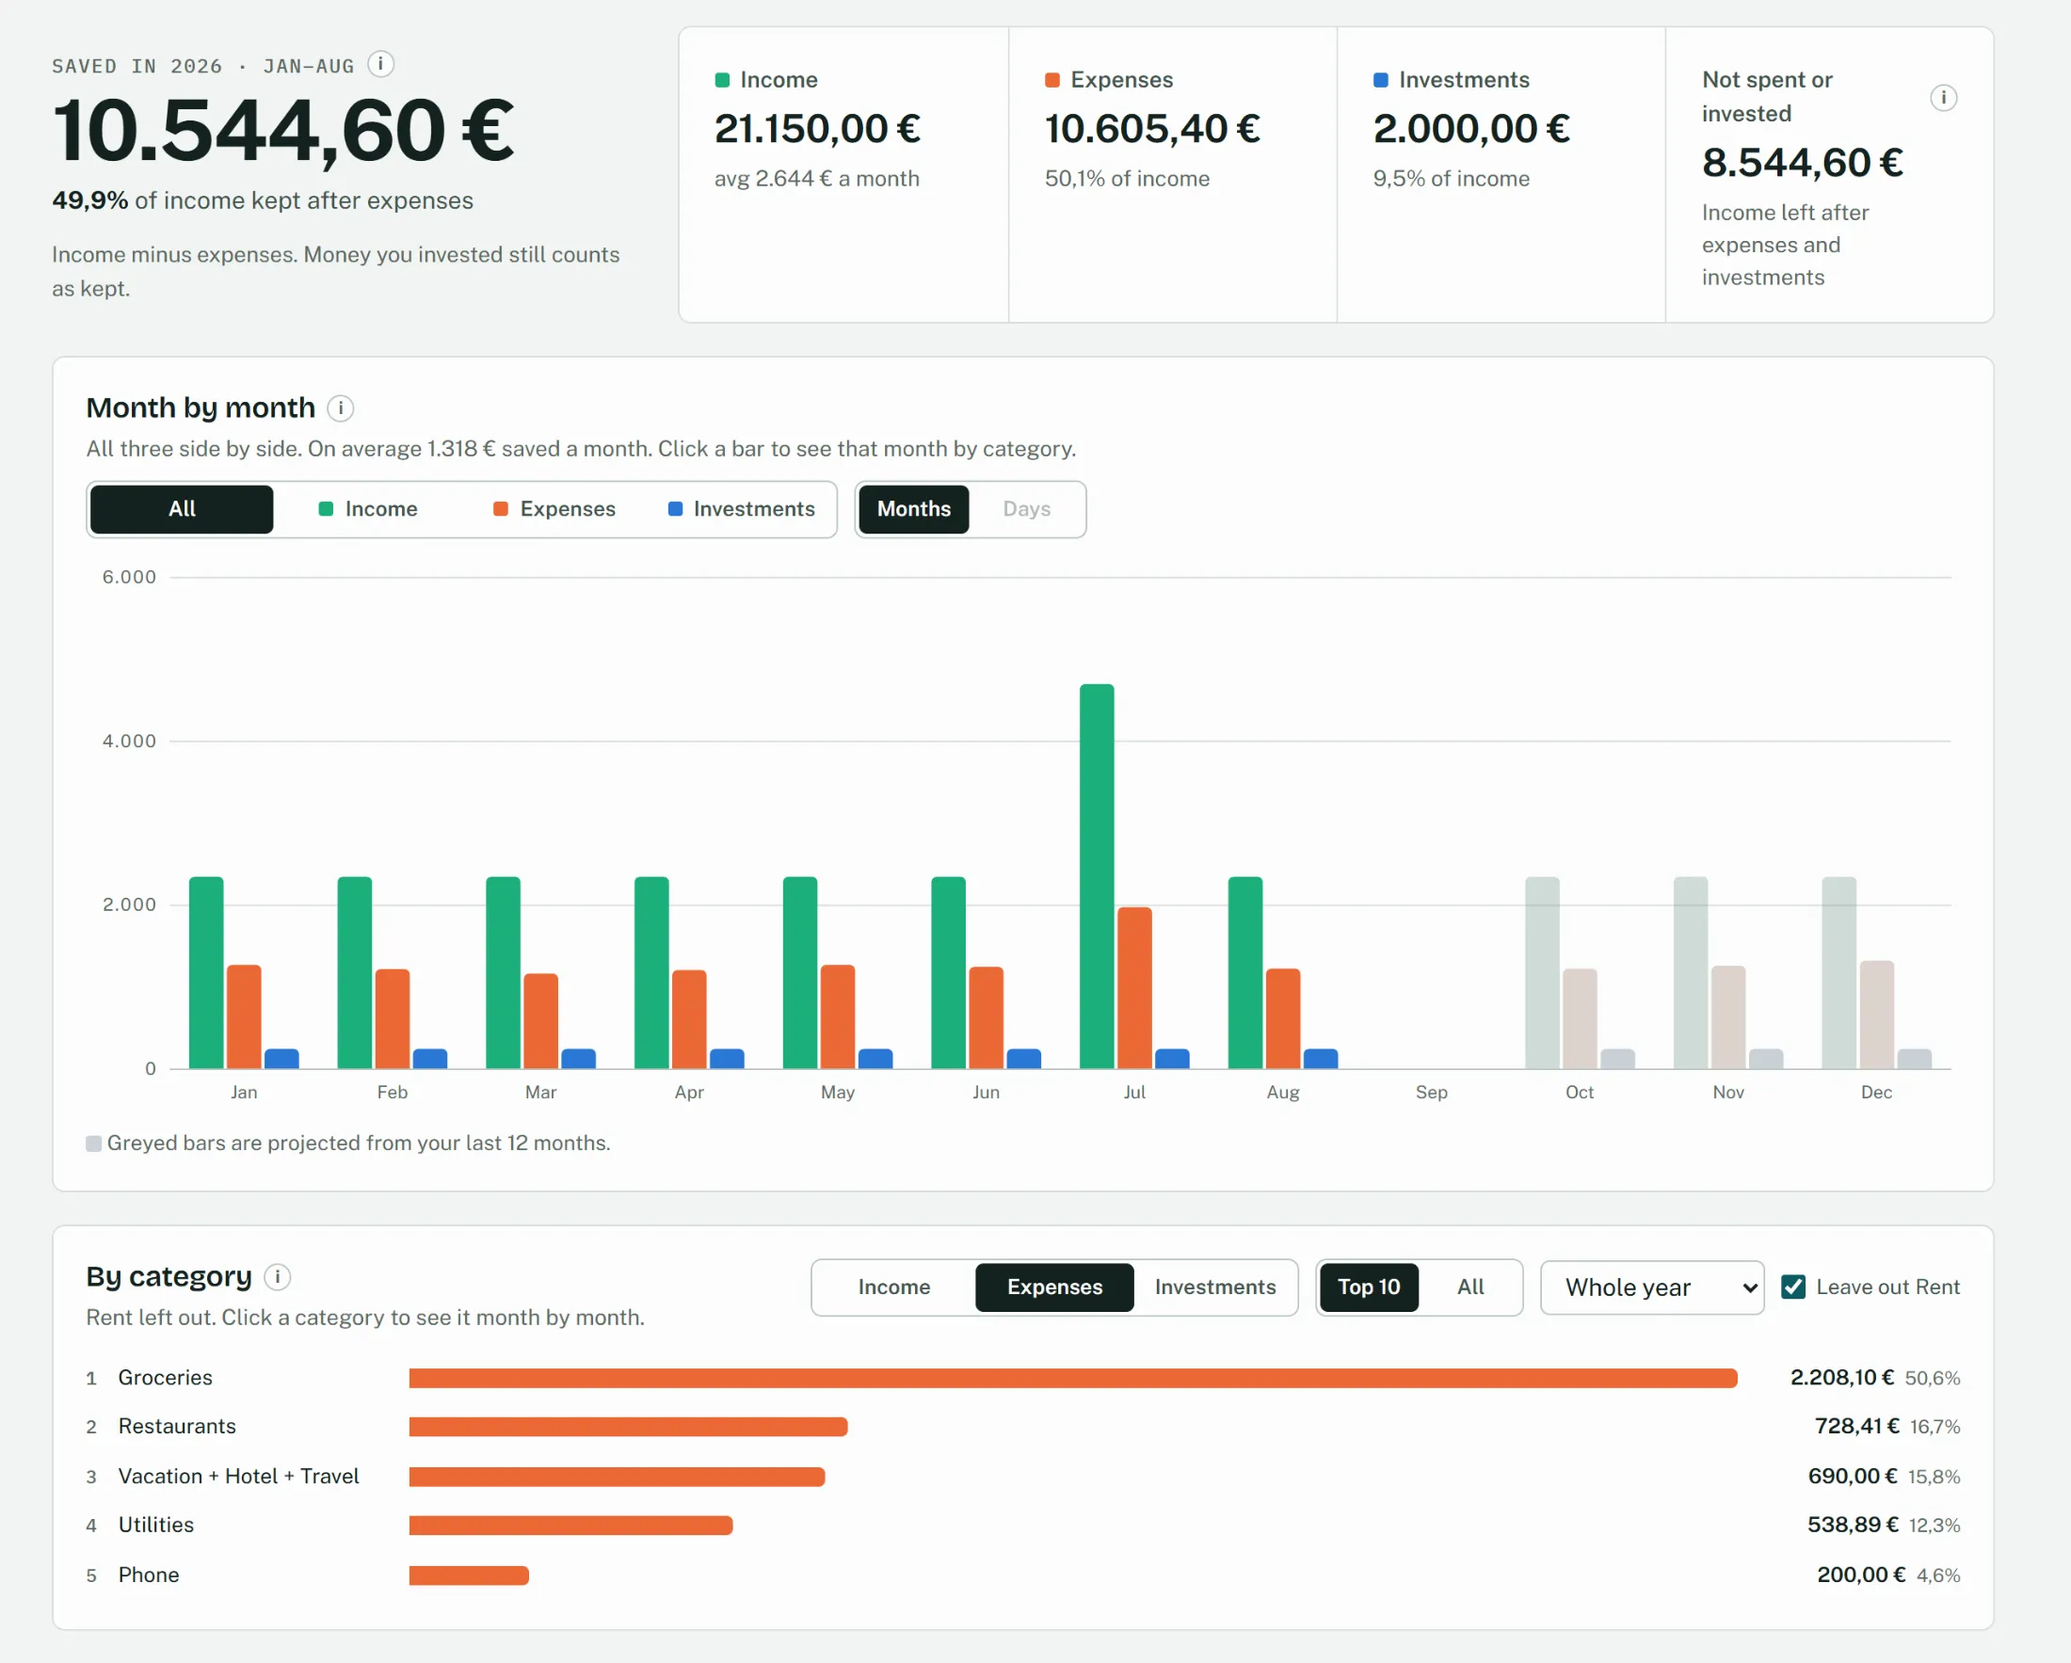
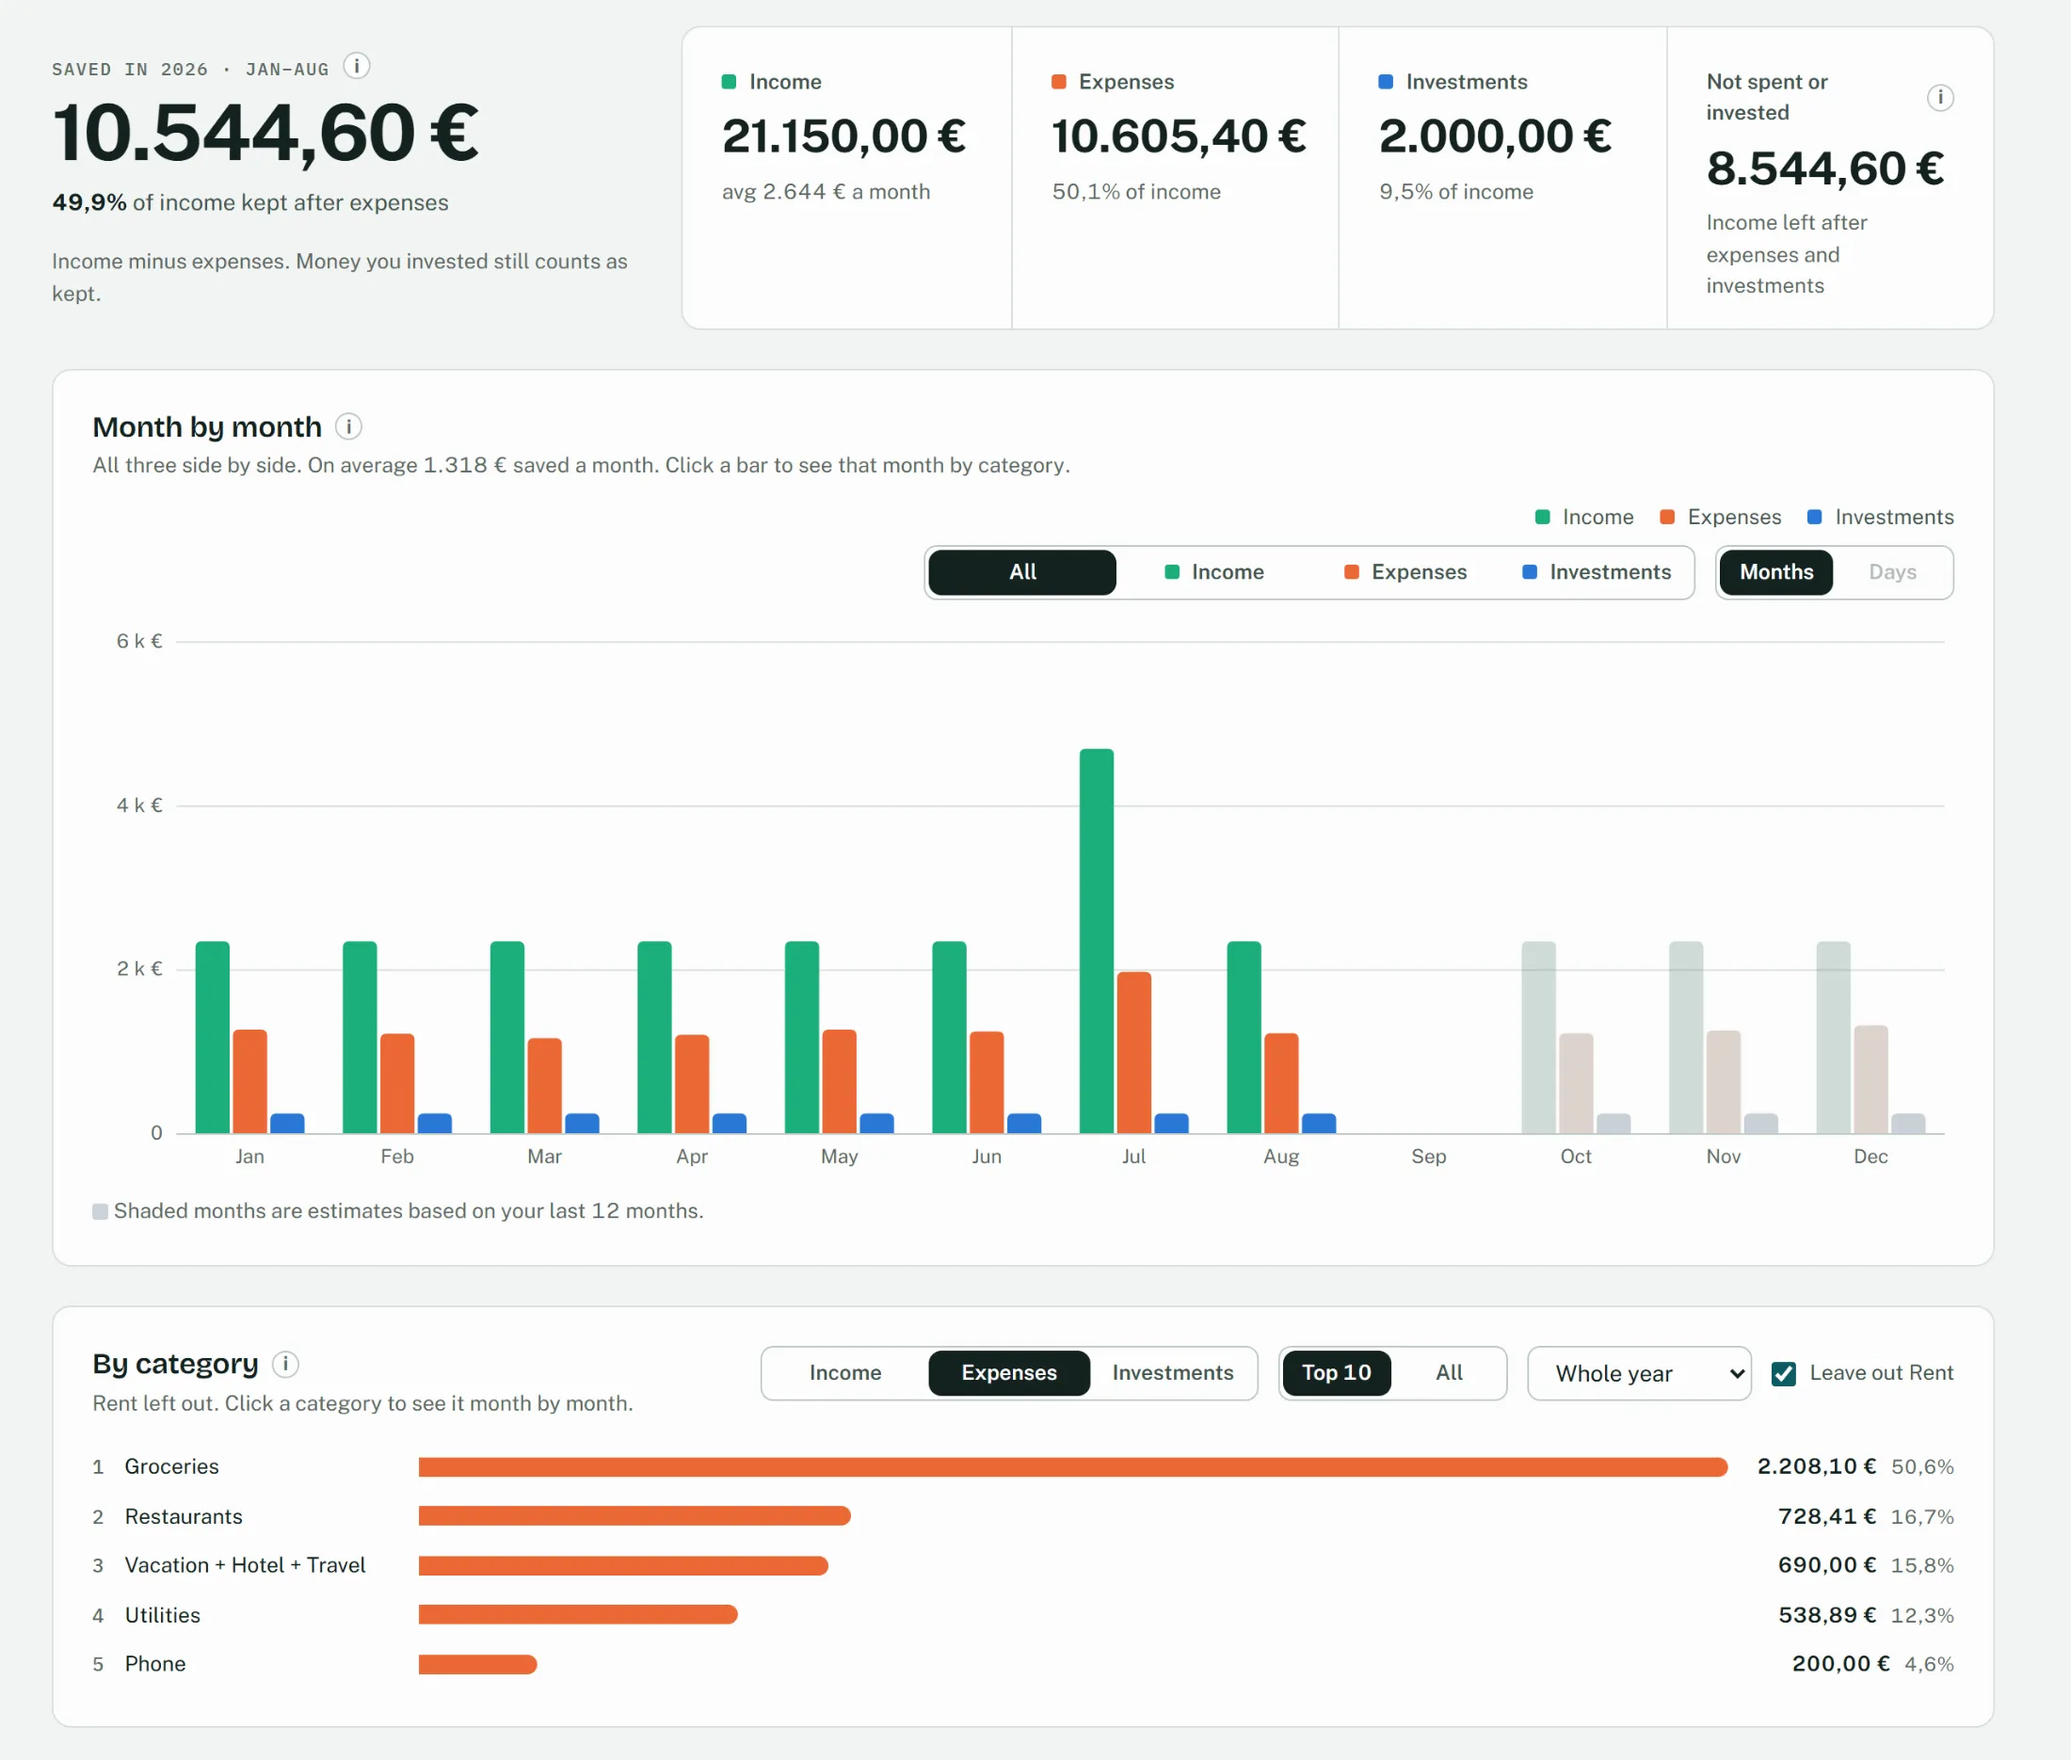
Layout pass 9: LAYOUT-CHANGES.md, SW 1.0.36, new landing shots
LAYOUT-CHANGES.md lists the pass per tab, the figure check (no value
changed on the demo data) and what needs a decision. Service worker and
config version 1.0.36 so installed copies pick up the new page. Landing
product shots regenerated from the new UI (made-up data).

diff --git a/sw.js b/sw.js
@@ -1,7 +1,7 @@
 /* MyAhorros: keeps the site's own files on the device so it opens offline.
    Only the site's files are cached; your data is never here (it lives in your folder, Drive or browser storage).
    The page itself is fetched fresh when online, so updates arrive on the next visit. */
-const VERSION='1.0.35-myahorros';
+const VERSION='1.0.36-myahorros';
 const CACHE='ybt-'+VERSION;
 const FILES=["./", "config.js", "fonts/bricolage-grotesque-latin-ext-opsz-normal.woff2", "fonts/bricolage-grotesque-latin-opsz-normal.woff2", "fonts/fonts.css", "fonts/ibm-plex-mono-latin-400-normal.woff2", "fonts/ibm-plex-mono-latin-500-normal.woff2", "fonts/ibm-plex-mono-latin-ext-400-normal.woff2", "fonts/ibm-plex-mono-latin-ext-500-normal.woff2", "fonts/public-sans-latin-ext-wght-normal.woff2", "fonts/public-sans-latin-wght-normal.woff2", "icons/apple-touch-icon.png", "icons/icon-192.png", "icons/icon-512.png", "icons/icon-maskable-512.png", "images/landing-networth-dark.webp", "images/landing-networth-light.webp", "images/landing-overview-dark.webp", "images/landing-overview-light.webp", "images/landing-yearly-dark.webp", "images/landing-yearly-light.webp", "index.html", "js/models.js", "js/web-ai.js", "js/web-boot.js", "js/web-shim.js", "manifest.webmanifest", "privacy.html", "vendor/pdf.min.js", "vendor/pdf.worker.min.js", "vendor/xlsx.full.min.js", "web.css"];
 self.addEventListener('install',e=>{ e.waitUntil(caches.open(CACHE).then(c=>c.addAll(FILES)).then(()=>self.skipWaiting())); });

diff --git a/config.js b/config.js
@@ -3,5 +3,5 @@
    Leave it empty and the Google Drive option shows as not available; folders and browser storage still work. */
 window.YBT_CONFIG = {
   googleClientId: '416274493105-bhfq37fgg059vpq3akspvd6l83m2gsui.apps.googleusercontent.com',
-  version: '1.0.35'
+  version: '1.0.36'
 };

diff --git a/LAYOUT-CHANGES.md b/LAYOUT-CHANGES.md
@@ -1,0 +1,118 @@
+# Layout and visual consistency pass
+
+A presentation-only pass over the whole tracker (branch `overhaul`, commits `fef1908`…`bfaf3ba`, SW 1.0.36). No calculation, data model, storage, import or categorisation logic changed. Every figure on every tab was compared before and after on the same made-up demo data. No figure changed value. The only differences are formatting (listed below) and three new display-only figures: the Goal card's current amount with 2 decimals, the group rows' Change, and shares with one decimal.
+
+## Across the app
+
+- **Tokens.** One token block in `index.html` `:root` holds all of these:
+  - spacing on a 4-pt scale (`--s4` … `--s48`)
+  - radii (card 12, inner 8, pill, mark 2)
+  - the type scale: page 24, section 18, hero 48, KPI 28, body 14, meta 13, small 12, eyebrow 11
+  - colour roles, including a status `--warn`
+
+  Hard-coded font sizes, radii, paddings, margins, gaps and colours now use them.
+- **Type sizes.**
+  - Captions are 13 px at every width.
+  - Nothing is under 12 px except the mono eyebrow labels and the phone tab bar (11 px).
+  - Figures use tabular numbers everywhere.
+- **Colour.**
+  - The Investments group is the same blue as the Investments flow.
+  - The long-term amber moved away from the expenses red-orange.
+  - Muted text measures at least 4.5:1 on every card surface, in both themes.
+- **Formatting.** One set of helpers: `fmtEUR`, `fmtCompact`, `fmtPct`, `DASH`, tested by `tests/format-smoke.js`.
+  - Charts use `63,3 k €` on both axes and bar labels.
+  - A tiny share shows `<0,1%`.
+  - Every "no figure" mark is a muted `—`.
+  - Ranges use an en dash (`Jan–Aug`).
+- **Page header.** Every tab has the same header:
+  - left: the page title (h1) and one line of description
+  - right: the period control and the page's buttons, in the same spot on every tab
+  - the year stepper moved here from the masthead
+  - content is 1280 px wide on every tab
+- **Buttons.**
+  - One filled primary per page, always right-most.
+  - Every group reads [Fill in with AI] [Paste or import] [primary].
+  - One label per action in English and Spanish ("Fill in with AI" / "Rellenar con IA", "Paste or import", "Add transaction").
+- **Charts.**
+  - Every chart has a legend in its top-right corner.
+  - One caption for estimates: "Shaded months are estimates based on your last N months".
+  - The selected month has the same look everywhere.
+  - The trend line is fainter and sits under the value labels.
+- **Touch and keyboard.**
+  - Every control on a phone or touch screen is at least 40 px tall.
+  - The phone tab bar fits every label in English and Spanish at 390 and 360 px.
+  - Every focused element shows a focus ring.
+  - Status is never shown by colour alone.
+
+## Per tab
+
+**Net worth**
+- New header layout. The month picker is the period control. Order: Fill in with AI, Import from Excel, Edit, then Enter next month (primary). Edit becomes the primary when no month is due.
+- Over time:
+  - a legend for the groups and the trend line
+  - short month names for a single year
+  - total labels in `k €`
+  - no year buttons when there is only one year
+- Financial health cards:
+  - all cards share one layout: label, value, meta, footer
+  - the footers line up along the bottom
+  - no colour squares
+  - only the badge carries a status colour
+  - the empty age card shows `—` and an "Add details in Settings" button
+- What changed and Goal:
+  - both keep their natural height
+  - the What changed bars compare on one scale without a "full" track
+  - explanations fold under "How is this calculated?"
+  - Goal repeats the headline figure with the same 2 decimals
+  - Change goal is outlined
+- Accounts:
+  - group rows show Change as well as Gains
+  - shares have one decimal on every row
+  - a missing figure shows a muted `—`
+  - the Gains explanation folds under "How is this calculated?"
+
+**Overview**
+- New header with the year stepper.
+- This month: buttons reordered. Where it went: each bar is the category's share of the month's spending.
+- Month by month: legend plus the trend key, the shared caption, and the same selected-month look as Over time.
+- Share of income ends at the last month with a figure.
+- Indicators: badges read On target / Over target / Under target.
+
+**Yearly tracking**
+- The header holds the year. The old "2026, month by month" heading is gone.
+- The grid stays at 12 px and scrolls inside its frame below 1200 px.
+- Zero cells show a muted `—`.
+- An over-limit cell is bold as well as red-underlined.
+
+**Transactions**
+- The header holds the year and the buttons.
+- The category menu is a quiet chip until you point at it or tab to it. It is still a native select.
+- "Show 150 more" was already there.
+
+**Categories**
+- New header. There is no year control, because the list doesn't depend on the year.
+- Rename and Delete appear on row hover or focus, and stay visible on touch. Delete is muted and turns red on hover; it already asked for confirmation.
+- Fixed/Variable use the chip style.
+- Add category and Add keyword are both outlined.
+- Keyword rows use the category chip.
+
+**Settings**
+- New header.
+- Action buttons are 40 px tall.
+
+## Needs a decision
+
+1. **Account names as "Provider · Product".** Names are the user's own data, stored as typed. Relabelling them would change stored data, and real provider names must not go in the repo. Rename them in Edit accounts (each account keeps its figures and links).
+2. **Net worth import label.** It stays "Import from Excel". That dialog only takes a file, so "Paste or import" would promise a paste box it doesn't have. The options are to rename it anyway or to add a paste box (a new feature).
+3. **Landing page captions.** They still say "Import from Excel" and "Read statements with AI". They describe features, not buttons.
+4. **Four KPI cards.** Net worth shows one card per group that has money in it (three in the demo), not always four.
+5. **Phone tab bar at 11 px.** The labels are at the eyebrow size, not the 12 px minimum, so all six fit on a 360–390 px phone.
+6. **Values under 4 px.** Hairlines, the 2–3 px chip padding and optical nudges are not on the 4-pt scale. Rounding them to 4 px would visibly change the chips.
+7. **Theme pictures in Settings.** They keep literal colours, because each one shows the other theme.
+8. **Trend key in Month by month.** It appears only when a single type is picked and Months is on, which is the only time the chart draws a trend line.
+
+## Not checked
+
+- A real phone, real iOS text scaling, a real screen reader, real Safari.
+- "Where it went" with real rows: the demo has none for the current month.
+- The Windows app, which shares this code and has not been run with these changes.
